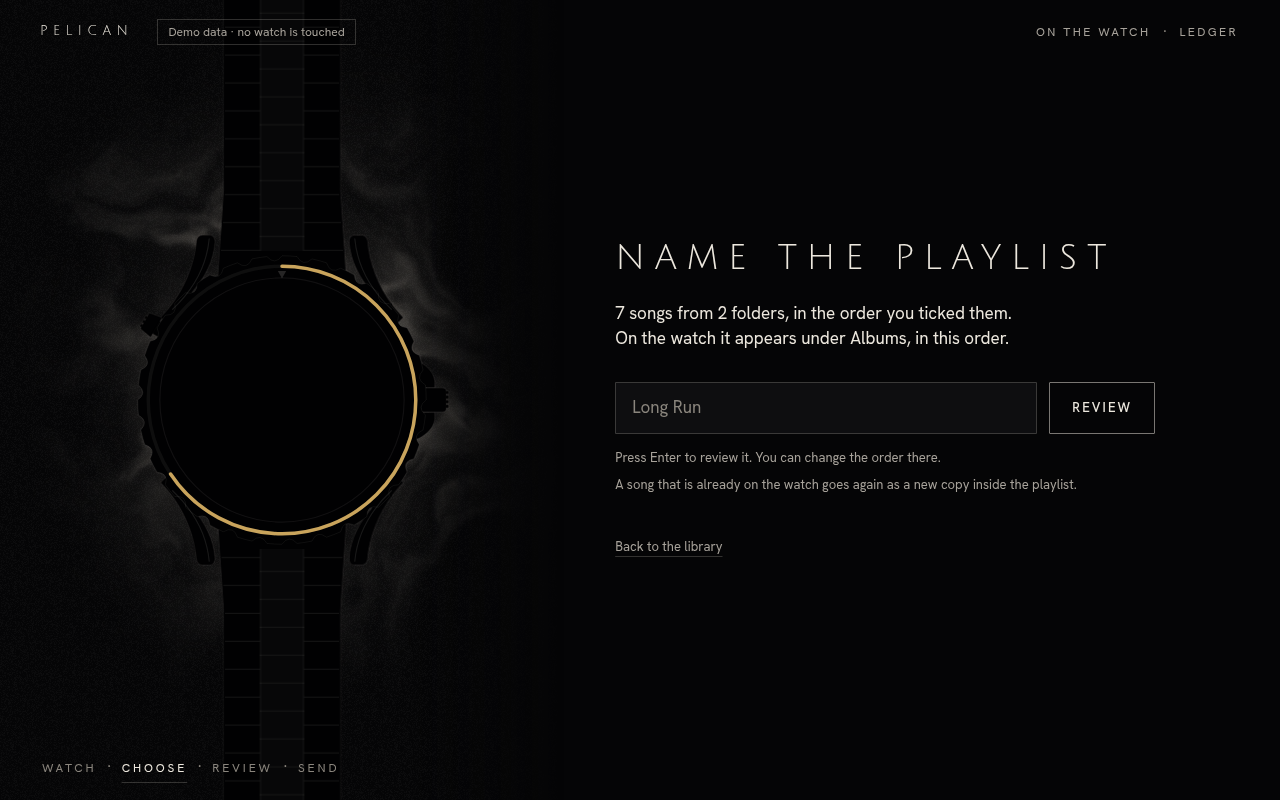
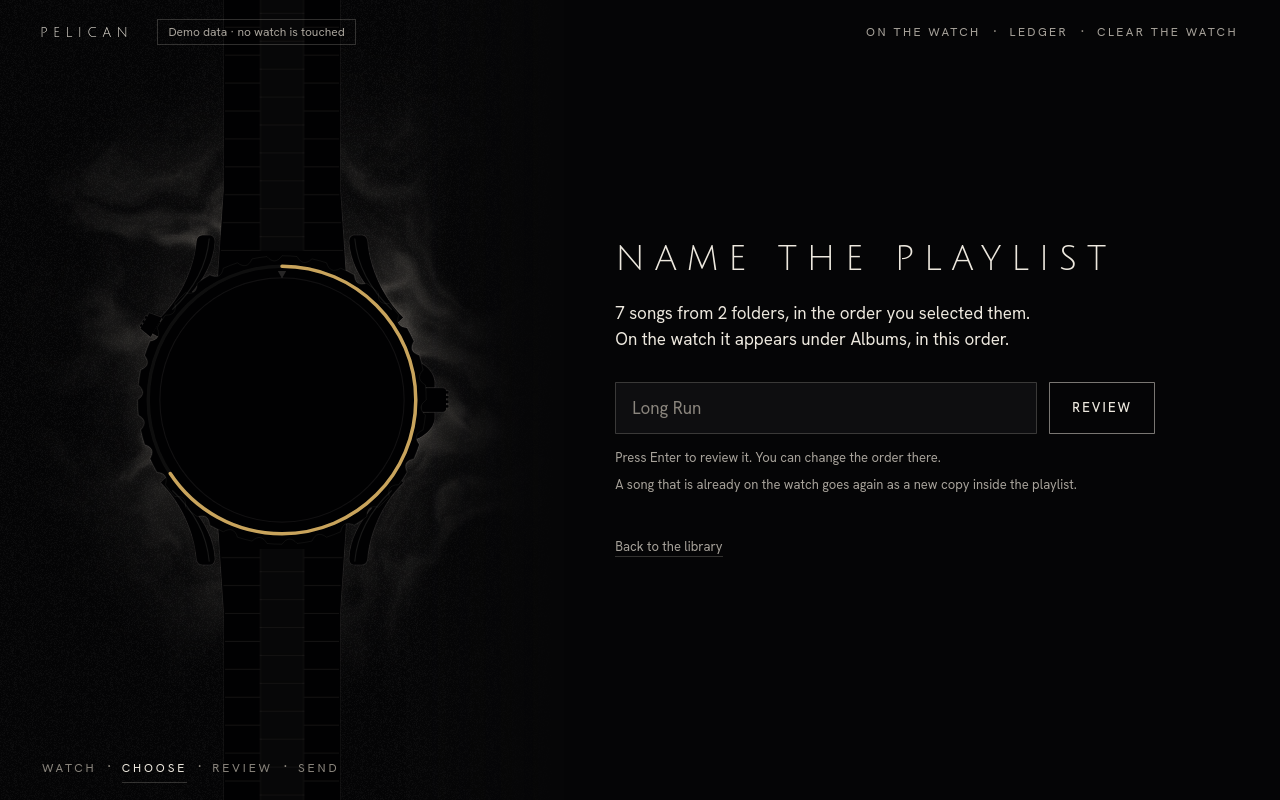
ui: make Clear the watch findable; stop card views scrolling sideways
The factory-reset walkthrough was a button labeled "Start over" at the
bottom of On the watch, and a tester looking for how to clear the watch
did not find it. It is now called Clear the watch, sits in the header next
to On the watch and Ledger, and is linked inline wherever the app says a
song cannot be deleted (On the watch, Review) and from a send that does
not fit. Not now returns to wherever it was opened, and a walkthrough left
mid-way (a backup copying) is resumed rather than restarted.

Card views with overflow-y: auto also scrolled sideways by the title's
-0.28em letter-spacing margin, drawing a horizontal scrollbar under Watch
and Clear the watch. README screenshots are recaptured from the demo.

diff --git a/ui/app.js b/ui/app.js
@@ -509,7 +509,7 @@
     ruleMsg: null, // { text, error } after a canceled or failed install
     bezel: 0, // clicks the dive bezel has turned
     roomFree: null, // free bytes as a send takes them, until status is read again
-    reset: null, // the Start over walkthrough, while it is open
+    reset: null, // the Clear the watch walkthrough, while it is open
   };
 
   const STEP_OF = { watch: 0, library: 1, playlist: 1, review: 2, send: 3, done: 3 };
@@ -632,7 +632,7 @@
         const ok = !cur && n <= S.reset.reached && !S.reset.checking && S.reset.step !== "done";
         return `<li><button type="button" data-rstep="${n}"${cur ? ' aria-current="step"' : ""}${ok ? "" : " disabled"}>${name}</button></li>`;
       }).join("");
-      $(".steps-nav").setAttribute("aria-label", "Start over");
+      $(".steps-nav").setAttribute("aria-label", "Clear the watch");
     } else {
       const step = STEP_OF[S.view];
       const have = S.chosen.length > 0;
@@ -666,7 +666,7 @@
     const busy = running();
     renderSteps();
     $$(".aside-nav .link").forEach((b) => {
-      const cur = b.dataset.go === S.view || (b.dataset.go === "onwatch" && S.view === "reset");
+      const cur = b.dataset.go === S.view || (b.dataset.act === "reset-open" && S.view === "reset");
       if (cur) b.setAttribute("aria-current", "page");
       else b.removeAttribute("aria-current");
       b.disabled = busy;
@@ -1412,7 +1412,7 @@
           }
           </div>
           <div class="commit">
-            <p class="permanence">${esc(NO_DELETE_SHORT)}</p>
+            <p class="permanence">${esc(NO_DELETE_SHORT)} <button type="button" class="text-btn inline" data-act="reset-open">How to clear it</button></p>
             ${sendBlock(p)}
           </div>
         </div>
@@ -1456,7 +1456,7 @@
         <span class="dim">About <span class="gold">${esc(bytes(Math.max(0, left)))}</span> will remain · ${after.toLocaleString("en")} of ${st.max_objects ?? MAX_OBJECTS} tracks after</span></div>`;
     }
     return `<div class="fit s-failed">${mark("failed")}<span class="word">Does not fit</span>
-      <span class="dim">${esc(f.reason || "")} Leave some songs out and review again.</span></div>`;
+      <span class="dim">${esc(f.reason || "")} Leave some songs out and review again, or <button type="button" class="text-btn inline" data-act="reset-open">clear the watch</button>.</span></div>`;
   }
 
   function sendBlock(p) {
@@ -1881,12 +1881,12 @@
     v.innerHTML = `<div class="head">
         <h1 class="title" id="t-onwatch" tabindex="-1">On the watch</h1>
         <p class="quiet">${esc(summary)}</p>
-        <p class="honest">${esc(NO_DELETE)}</p>
+        <p class="honest">${esc(NO_DELETE)} <button type="button" class="text-btn inline" data-act="reset-open">How to clear the watch</button></p>
       </div>
       ${body}
       <div class="bar"><span class="count">Other: put there by another app or computer.</span>
         <button type="button" class="text-btn" data-act="back-flow">Back</button>
-        <button type="button" class="act" data-act="reset-open">Start over</button></div>`;
+        <button type="button" class="act" data-act="reset-open">Clear the watch</button></div>`;
   }
 
   // --- Ledger ----------------------------------------------------------
@@ -1954,15 +1954,23 @@
         <button type="button" class="text-btn" data-act="back-flow">Back</button></div>`;
   }
 
-  // --- Start over: the factory-reset walkthrough -----------------------
+  // --- Clear the watch: the factory-reset walkthrough ------------------
   //
   // Four title cards: what a reset erases, back up first, the steps
   // on the watch, and the check. Pelican never resets anything itself; it
   // copies the watch's files (read-only) and, at the end, reads /Music and
   // starts a fresh ledger only if the watch really is empty.
 
+  // Reachable from the header, On the watch, Review and a send that does
+  // not fit, so Not now returns to wherever it was opened. A walkthrough
+  // left mid-way (a backup copying, say) is resumed, not started over.
   function openReset() {
+    if (S.reset) {
+      if (S.view !== "reset") show("reset");
+      return;
+    }
     S.reset = {
+      from: S.view,
       step: 1,
       reached: 1,
       dest: null,
@@ -2446,10 +2454,12 @@
       case "reset-step":
         resetStep(Number(el.dataset.n));
         break;
-      case "reset-close":
+      case "reset-close": {
+        const from = (S.reset && S.reset.from) || "onwatch";
         S.reset = null;
-        go("onwatch");
+        go(from);
         break;
+      }
       case "reset-confirm":
         confirmClean();
         break;

diff --git a/ui/app.css b/ui/app.css
@@ -521,6 +521,10 @@ body.dragging .veil {
   flex-direction: column;
   justify-content: center;
   max-width: 620px;
+  /* The title's -0.28em margin (cancelling its trailing letter-spacing)
+     makes it 0.28em wider than the card. A card that scrolls vertically
+     would otherwise scroll sideways by that much of empty tracking. */
+  overflow-x: hidden;
 }
 
 .view:not([data-card]) {
@@ -666,6 +670,18 @@ code {
 .text-btn:hover {
   color: var(--bone);
   text-decoration-color: var(--bone-dim);
+}
+
+/* A link inside a sentence: it takes the sentence's size and line. */
+.text-btn.inline {
+  padding: 0;
+  font-size: inherit;
+  line-height: inherit;
+  color: inherit;
+}
+
+.text-btn.inline:hover {
+  color: var(--bone);
 }
 
 .text-btn:disabled {

diff --git a/ui/index.html b/ui/index.html
@@ -126,6 +126,8 @@
       <button type="button" class="link" data-go="onwatch">On the watch</button>
       <span class="sep" aria-hidden="true">·</span>
       <button type="button" class="link" data-go="ledger">Ledger</button>
+      <span class="sep" aria-hidden="true">·</span>
+      <button type="button" class="link" data-act="reset-open">Clear the watch</button>
     </nav>
   </header>
 

diff --git a/DESIGN.md b/DESIGN.md
@@ -210,7 +210,7 @@ Near-black ink and warm bone, with two accents: champagne (proven) and blood (fa
 ## Layout
 
 The window is one grid: a 64px top bar, a stage, and a 64px foot (52px when the viewport is under 700px tall). The ink field spans all three rows on the left, and its width follows the view:
-- clamp(40%, 100% − 716px, 52%) on card views (Watch, Name the playlist, Start over): 52% on a wide window, giving way only as far as the title column needs to hold "FORERUNNER 165 MUSIC" (609px) on one line at 34px / 0.28em. The 716px reserve covers the title, the 40px right gutter and the stage's left inset at its largest (64px), so the line holds through the 1280-1460 band where that inset still grows with 4vw. Measured one line at 1280, 1360, 1440, 1460 and 1600, including every frame of the title entrance. The silhouette sits at optical center, and the title column is vertically centered with a max width of 620px; it scrolls rather than clips when "What it runs" is open.
+- clamp(40%, 100% − 716px, 52%) on card views (Watch, Name the playlist, Clear the watch): 52% on a wide window, giving way only as far as the title column needs to hold "FORERUNNER 165 MUSIC" (609px) on one line at 34px / 0.28em. The 716px reserve covers the title, the 40px right gutter and the stage's left inset at its largest (64px), so the line holds through the 1280-1460 band where that inset still grows with 4vw. Measured one line at 1280, 1360, 1440, 1460 and 1600, including every frame of the title entrance. The silhouette sits at optical center, and the title column is vertically centered with a max width of 620px; it scrolls rather than clips when "What it runs" is open.
 - 48% on Send and Done, which gives the credits a little more room.
 - clamp(200px, 27%, 380px) on list views (Library, Review, On the watch, Ledger), where the field becomes a column and the stage holds a header, scrolling hairline rows, and a bottom bar.
 
@@ -218,7 +218,7 @@ Review splits into a track list and a 250-300px side column. Permanence and Send
 
 The outer gutter is 40px (28px under 1100px). The stage's inner left edge is clamp(24px, 4vw, 64px). Vertical rhythm comes from a small set of steps: 10px rows, 14px gaps, 18px, 22px, 28px blocks, and 36px above an action row. Under 820px the frame stacks. The field becomes a 240px band behind the top bar with a 200px watch, the stage flows below it with 16px gutters.
 
-The foot holds only the step index (Watch · Choose · Review · Send; in Start over, Erases · Back up · Reset · Confirm). A hairline travels under the current step (360 ms). Nothing else sits in the foot.
+The foot holds only the step index (Watch · Choose · Review · Send; in Clear the watch, Erases · Back up · Reset · Confirm). A hairline travels under the current step (360 ms). Nothing else sits in the foot.
 
 ## Elevation & Depth
 
@@ -252,7 +252,7 @@ The shape language is a hairline and a right angle. Buttons and inputs have a 1p
 - **Text button:** dim bone, 0.8125rem, underlined with a hairline offset 5px. It brightens to bone on hover.
 
 ### Navigation
-- **Top-right links** (On the watch · Ledger) and the **step index** (Watch · Choose · Review · Send) are tracked capital words separated by faint middle dots. At rest they are dim or faint. The current item turns bone; the current page link also gets a hairline underline offset 6px. There are no tabs, pills or icons.
+- **Top-right links** (On the watch · Ledger · Clear the watch) and the **step index** (Watch · Choose · Review · Send) are tracked capital words separated by faint middle dots. At rest they are dim or faint. The current item turns bone; the current page link also gets a hairline underline offset 6px. There are no tabs, pills or icons.
 
 ### Inputs / Fields
 - **Style:** Raised Ink fill, 1px strong-hairline border, 1px radius, 38px tall (34px in the Review overrides grid).
@@ -308,7 +308,7 @@ Make a playlist opens a title card, "Name the playlist": one line saying the son
 A row skipped as already on the watch offers Send again. Once chosen, it reads "Send again · another copy, under a new name" with Keep skipped beside it. A run-wide toggle, "Send every skipped song again", sits in Review's side column.
 
 ### The Permanence Statement
-One statement in two lengths, used on On the watch, Review (beside Send) and the first Start over card: nothing can be deleted from the watch one song at a time; the only way to clear it is a factory reset, and that erases everything on the watch: activities, health data, settings, Garmin Pay and music. It is set in Body Small bone, never red, because it states a fact.
+One statement in two lengths, used on On the watch, Review (beside Send) and the first Clear the watch card: nothing can be deleted from the watch one song at a time; the only way to clear it is a factory reset, and that erases everything on the watch: activities, health data, settings, Garmin Pay and music. It is set in Body Small bone, never red, because it states a fact. Wherever it appears it ends in an inline link to Clear the watch ("How to clear the watch", "How to clear it"), and a send that does not fit offers the same link: the moment someone learns a song cannot be deleted is the moment they look for the way out. The inline link takes the sentence's size and color, with the text button's hairline underline.
 
 ### Start Over (factory-reset walkthrough)
 Four title cards with their own step index in the foot (Erases · Back up · Reset · Confirm). Pelican never resets the watch.

diff --git a/docs/status.md b/docs/status.md
@@ -39,7 +39,7 @@ macOS is out of scope for the rebuild.
   music app and plays.
 - **Desktop app**: a five-song playlist from two folders sent through
   `pelican-app`: 5 verified, libmtp read-back matched, tracks 1 to 5.
-- **Start over**: `reset-ledger` against a watch with 27 audio objects
+- **Clear the watch**: `reset-ledger` against a watch with 27 audio objects
   refused and left the ledger byte-identical. The other half (a `reset`
   line after a real factory reset) is not yet hardware-tested.
 
@@ -61,7 +61,7 @@ macOS is out of scope for the rebuild.
 | Send again | Besides the run-wide `--resend`, a front-end can name single files to send again (`Options::resend_sources`, `transfer::Resend`): each goes under a fresh name (the counter never repeats) as another copy in the library. Adding a song already on the watch to a playlist needs no flag at all: the skip key is audio + album, so it is sent as a new copy automatically. | R5 |
 | A watch that stops answering | After a reboot the FR165 can come back wedged: seen 2026-09-26 enumerating as `091e:0003` "Garmin GPS usb/tty converter", every MTP open then timing out after 30 s until a physical replug. `error::classify` sorts any device error into `not_found` / `permission` / `busy` / `gvfs` / `wedged` / `other`; a timeout (mtp-rs `Error::Timeout`, an I/O `TimedOut`, or the text) is `wedged` and carries `error::REPLUG`: "The watch isn't answering. Unplug it, wait five seconds, plug it back in." `garmin::pick_device` reports a watch seen only as `091e:0003` the same way. A push whose upload or read-back times out records the attempt as `failed`, does not retry, and ends the run with that instruction instead of waiting out a timeout per file. The CLI prints the instruction on its own line. |  |
 | Back up the watch | `backup::backup` walks the watch's `GARMIN` folder with `list_dir` and copies every file with `download_file` into `DEST/GARMIN/…`. Those are the only two calls it makes, so it cannot write to the watch. Local files are created new, never replaced; device names that could climb out of DEST are refused. Stoppable between files; a file that will not copy is reported and the rest are still copied; a wedge ends it with the replug instruction. `backup::default_dest(model)` is `~/Documents/Pelican/<model> backup <YYYY-MM-DD>` (XDG documents dir, UTC date, ` (2)` if taken). CLI: `pelican backup [DEST]`. |  |
-| Start over after a factory reset | `reset::reset_ledger` re-reads `/Music` itself and, only if it holds no audio objects (stubs count), appends a `reset` line to the ledger. After it, names and verified sources from before no longer count; `max_counter` still spans everything, so the numbering keeps rising. Refuses with an explanation while audio remains. CLI: `pelican reset-ledger`. | R4 |
+| Clear the watch (a factory reset) | `reset::reset_ledger` re-reads `/Music` itself and, only if it holds no audio objects (stubs count), appends a `reset` line to the ledger. After it, names and verified sources from before no longer count; `max_counter` still spans everything, so the numbering keeps rising. Refuses with an explanation while audio remains. CLI: `pelican reset-ledger`. | R4 |
 | Places | `places::places(library_root)`: Home, the XDG Music dir, the configured library, mounted network shares (nfs/nfs4/cifs/smb3/smbfs/sshfs from `/proc/self/mounts`, plus an `autofs` trigger that `/etc/fstab` says mounts a network filesystem, as with a systemd automount NAS), and drives under `/run/media/$USER` or `/media/$USER`. Mount points are not `stat`ed (an NFS mount with its server gone can hang); the fixed folders are. Parsing is pure and tested on fixture text. |  |
 | gvfs warning | Every device-touching command warns, with the `gio mount -u` fix, if gvfs-mtp holds the watch. | R9 |
 | udev | `udev/70-garmin-mtp.rules` sorts before `73-seat-late.rules`, so `uaccess` actually grants the ACL. | R10 |

diff --git a/README.md b/README.md
@@ -131,7 +131,7 @@ Verified on a Forerunner 165 Music (firmware 2506) on Linux, 2026-09-26: a
 again by an independent libmtp read-back, and played on the watch. Details in
 [`docs/status.md`](docs/status.md). Playlists as albums, the
 backup and sending from the app were verified on the same watch on
-2026-09-27. Start over has been checked on hardware only as far as refusing
+2026-09-27. Clear the watch has been checked on hardware only as far as refusing
 a watch that still holds music; the step after a real factory reset has been
 tested against a simulated watch.
 
@@ -165,7 +165,7 @@ across, and with which tags, before anything touches the watch.
 
 ### Starting over
 
-When you do want a clean watch, **On the watch → Start over** walks you
+When you do want a clean watch, **Clear the watch** (at the top of the window, and linked wherever the app says a song cannot be deleted) walks you
 through it:
 
 1. **What a reset erases:** activities, sleep and health data, settings,
@@ -182,7 +182,7 @@ through it:
    remains, it tells you and changes nothing.
 
 <p align="center">
-  <img src="docs/images/reset-1.png" alt="Start over, step one: what a reset erases (activities, health data, settings, Garmin Pay and music), with a Back up first button" width="820" />
+  <img src="docs/images/reset-1.png" alt="Clear the watch, step one: what a reset erases (activities, health data, settings, Garmin Pay and music), with a Back up first button" width="820" />
 </p>
 
 Also not supported:
@@ -213,7 +213,7 @@ reports, including broken ones, is treated as taken too.
 
 The ledger also means a track you already sent is skipped next time (Send
 again, or `--resend`, overrides this under a new name). After a factory reset
-and the Start over check, the ledger gains a `reset` line: older names no
+and the Clear the watch check, the ledger gains a `reset` line: older names no
 longer count as taken, and the numbering keeps rising.
 
 **Keep the ledger.** It is the only memory of which names are safe. It lives

diff --git a/PRODUCT.md b/PRODUCT.md
@@ -92,7 +92,7 @@ Dropping folders on the window still works.
 - **Back up the watch** (read-only): copies the watch's whole `GARMIN` folder
   (activities, sleep, health monitoring, records, settings) to
   `~/Documents/Pelican/<model> backup <date>`. Never writes to the watch.
-- **Start over** after a factory reset: a four-step walkthrough (what a reset
+- **Clear the watch**: a four-step factory-reset walkthrough, reachable from the header and linked wherever the app says a song cannot be deleted (what a reset
   erases → back up first → the reset steps on the watch → plug back in).
   Pelican reads `/Music` itself and resets its ledger for that watch only if
   no audio remains; otherwise it refuses and says why. Pelican never resets
@@ -113,7 +113,7 @@ audio + album). The IPC keeps the core's name, `mix`.
 - **Permanence.** A track sent to the watch stays in its music library until a
   factory reset. MTP delete frees space but leaves a dead library entry, so
   Pelican has **no delete**. This must be felt *before* sending, not footnoted.
-  Said the same way everywhere (Review, On the watch, Start over): nothing can
+  Said the same way everywhere (Review, On the watch, Clear the watch): nothing can
   be deleted one song at a time; only a factory reset clears the watch, and it
   erases **everything**: activities, health data, settings, Garmin Pay and
   music.

diff --git a/CHANGELOG.md b/CHANGELOG.md
@@ -15,7 +15,7 @@ does not do.
 **Hardware acceptance passed on 2026-09-26:** 24 tracks sent to a Forerunner
 165 Music on firmware 2506, 24 verified by read-back hash, confirmed by an
 independent libmtp read-back, and played on the watch. On 2026-09-27 playlists sent as albums, the backup and
-a send from the app passed on the same watch; Start over has been checked
+a send from the app passed on the same watch; Clear the watch has been checked
 on hardware only as far as its refusal while music remains.
 
 ### Added
@@ -25,9 +25,10 @@ on hardware only as far as its refusal while music remains.
   Review (tags, sizes, whether it fits, run-wide tag overrides, Send again)
   and Send (tracks roll up like credits as each is proven). "On the watch"
   lists `/Music` and the ledger.
-- **Start over**: a walkthrough for a factory reset that backs up the watch
+- **Clear the watch**: a walkthrough for a factory reset that backs up the watch
   first and resets the ledger only after reading `/Music` and finding no
-  audio.
+  audio. It is in the header, and linked from every place the app says a
+  song cannot be deleted and from a send that does not fit.
 - **Install the USB rule** button: installs `udev/70-garmin-mtp.rules`
   through polkit with one fixed command; refused inside a Flatpak, where the
   window shows the command instead.
